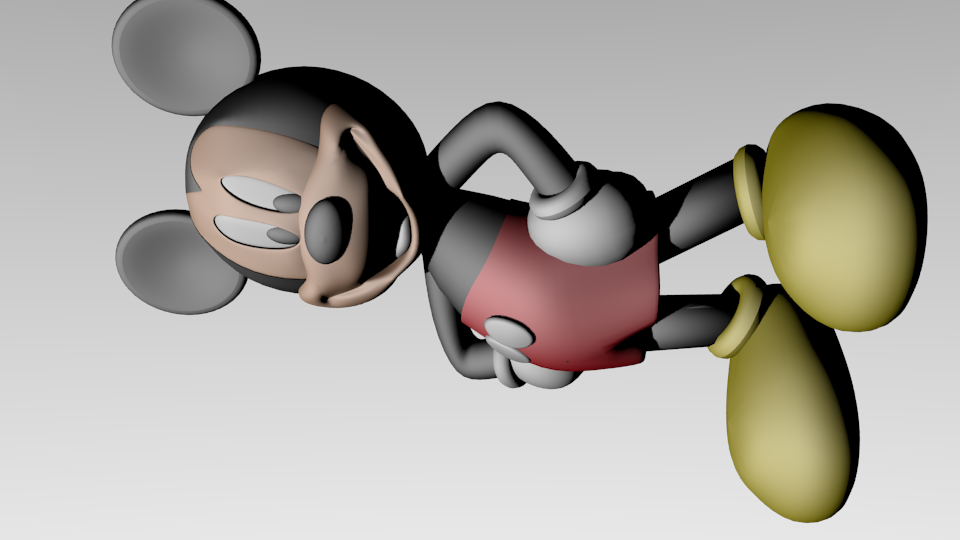
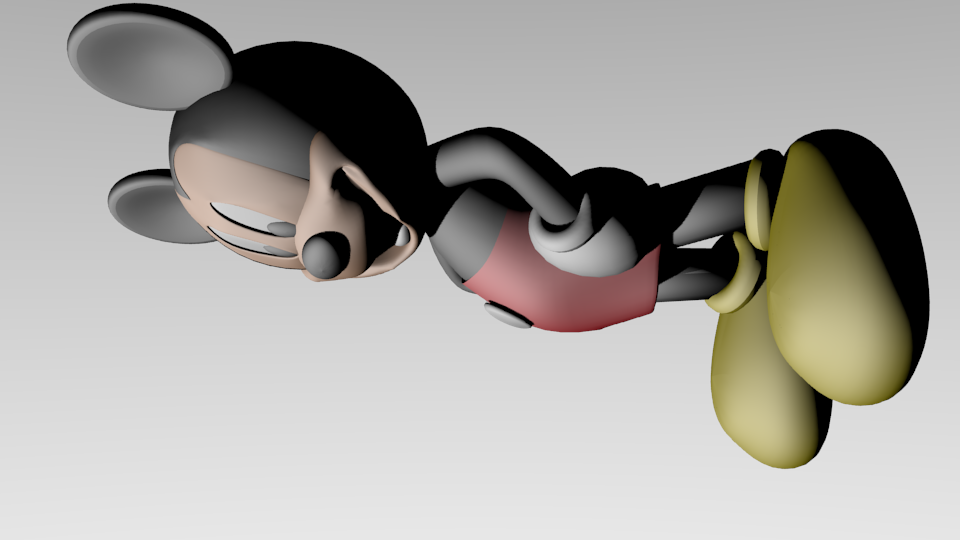
Blender content even with higher degrees.

diff --git a/Blender/CreateBlenderContent.py b/Blender/CreateBlenderContent.py
@@ -7,7 +7,7 @@ cam = bpy.dataobjects['Camera']
 # Loop to create images from different perspectives.
 for counter in range(0,18):
     # Angle is calculated according to counter.
-    alpha = 5*counter
+    alpha = 10*counter
     # Radius of the circle.
     h     = -1.1
     # Coordinates for the new camera location.
